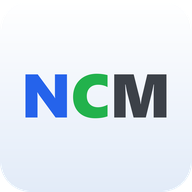
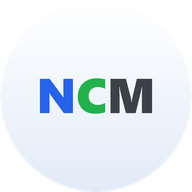
Make the figures on the staff board something you can open
The four counts were numbers you could only read. Each is now a button that
opens the people behind it, and a row of blue tiles - one per job title -
opens everyone doing that job. Both lists are ordered by employee code.

They open as a roster of code, name and job rather than full record cards:
"present" alone is 370 people, and 370 cards means 740 photographs fetched
at once. Tapping a name opens that one person in full, with a way back to
the list and from there to the figures. A count of zero stays unclickable
rather than opening an empty list.

The permits header shrank when a search ran but still scrolled away with the
page, so the mark was gone as soon as there was anything to read. It stays
put now, with the controls sticking underneath it - the offset is measured
rather than hard-coded, since it depends on fonts that load late.

The app is called NCM, and the circle the launcher already used is now the
only mark: the web icons were a rounded square of the same wordmark. The
maskable icon goes with them, since a transparent circle only gets cropped.

diff --git a/employees/index.html b/employees/index.html
@@ -281,7 +281,63 @@ html[dir="ltr"] .tile{direction:ltr;}
   display:flex;flex-direction:column;gap:7px;padding:13px 15px;
   border-radius:var(--r);background:var(--panel-2);border:1px solid var(--line);
   animation:rise .26s ease-out both;
+  /* a button, so it needs telling to look like the div it replaced */
+  width:100%;text-align:start;font:inherit;color:inherit;
+  transition:transform .12s,box-shadow .18s;
 }
+.tile:hover{box-shadow:0 6px 18px rgba(21,101,192,.14);}
+.tile:active{transform:scale(.98);}
+.tile:disabled{cursor:default;opacity:.6;box-shadow:none;transform:none;}
+/* Job tiles are the blue set: one colour for "who does what", so they read as
+   a different question from the four status counts above them. */
+.tile.job{background:#e4eefb;border-color:var(--line-2);}
+.tile.job .tile-k{color:var(--brand-navy);}
+.tile.job .tile-v{color:var(--brand-blue);}
+.tiles-head{
+  display:flex;align-items:center;gap:10px;margin:22px 0 2px;
+  font-size:11.5px;font-weight:700;color:var(--muted);letter-spacing:.02em;
+}
+.tiles-head::after{
+  content:'';flex:1;height:1px;
+  background:linear-gradient(90deg,var(--line-2),transparent);
+}
+
+/* ---------- roster: a list of names, not a wall of cards ---------- */
+/* Navigation *inside* the system, not a way out of it: the phone's own back
+   button still leaves for the home screen. */
+.backlist,.backboard{
+  display:flex;align-items:center;justify-content:center;gap:8px;
+  width:100%;margin-top:14px;padding:12px;border-radius:var(--r);
+  border:1px solid var(--line-2);background:var(--tint);color:var(--gold);
+  font:inherit;font-weight:700;font-size:13px;
+  transition:background .16s,transform .12s;
+}
+.backlist:hover,.backboard:hover{background:#d9e6f7;}
+.backlist:active,.backboard:active{transform:scale(.99);}
+.roster-hint{font-size:11.5px;color:var(--muted);margin:10px 0 0;text-align:center;}
+.roster{display:flex;flex-direction:column;gap:7px;margin-top:14px;}
+.rost{
+  display:flex;align-items:center;gap:12px;width:100%;
+  padding:12px 14px;border-radius:var(--r);
+  background:var(--panel);border:1px solid var(--line);
+  font:inherit;color:inherit;text-align:start;
+  animation:rise .22s ease-out both;
+  transition:transform .12s,box-shadow .18s,border-color .16s;
+}
+.rost:hover{border-color:var(--line-2);box-shadow:0 6px 16px rgba(21,101,192,.12);}
+.rost:active{transform:scale(.99);}
+.rost-c{
+  flex:none;min-width:52px;padding:5px 9px;border-radius:9px;
+  background:var(--tint);border:1px solid var(--line-2);
+  color:var(--brand-blue);font-size:12.5px;font-weight:700;text-align:center;
+}
+.rost-n{flex:1;min-width:0;font-size:14px;font-weight:700;line-height:1.4;}
+.rost-j{display:block;font-size:11.5px;font-weight:500;color:var(--muted);margin-top:3px;}
+.rost-s{flex:none;width:9px;height:9px;border-radius:50%;background:var(--neutral-br);}
+.rost-s.ok{background:var(--success);}
+.rost-s.warn{background:var(--warning);}
+.rost-s.bad{background:var(--danger);}
+.rost-s.mute{background:var(--neutral-br);}
 .tile-k{font-size:11.5px;color:var(--muted);}
 .tile-v{font-size:23px;font-weight:600;color:var(--text);line-height:1;}
 .tile.mute .tile-v{color:var(--text-2);}
@@ -567,6 +623,10 @@ const I18N = {
     jobTitle:'الوظيفة', department:'القسم', hireDate:'تاريخ التعيين',
     banReason:'سبب المنع', resignEnd:'انتهاء الاستقالة', notSpecified:'غير محدد',
     searchResults:'نتائج البحث', bannedList:'قائمة الممنوعين', expiringList:'تصاريح قرب الانتهاء',
+    byJob:'حسب الوظيفة', jobList:'وظيفة', noJob:'بدون وظيفة مسجلة',
+    listActive:'الموظفون الموجودون', listResigned:'الاستقالات',
+    backToBoard:'رجوع للإحصائيات', backToList:'رجوع للقائمة',
+    tapForDetails:'اضغط على أي اسم لعرض بياناته',
     noMatch:'لم يتم العثور على موظف مطابق', noMatchHint:'تأكد من الكود أو الرقم القومي أو الاسم',
     noBanned:'لا يوجد موظفون ممنوعون حاليًا',
     noExpiring:'لا توجد تصاريح تنتهي خلال ' + EXPIRY_WINDOW + ' يوم',
@@ -593,6 +653,10 @@ const I18N = {
     jobTitle:'Job Title', department:'Department', hireDate:'Hire Date',
     banReason:'Ban Reason', resignEnd:'Resignation Ends', notSpecified:'Not specified',
     searchResults:'Search Results', bannedList:'Banned List', expiringList:'Permits Expiring Soon',
+    byJob:'By job title', jobList:'Job', noJob:'No job recorded',
+    listActive:'Active employees', listResigned:'Resignations',
+    backToBoard:'Back to the figures', backToList:'Back to the list',
+    tapForDetails:'Tap a name to see the full record',
     noMatch:'No matching employee found', noMatchHint:'Check the code, national ID or name',
     noBanned:'No banned employees at the moment',
     noExpiring:'No permits expiring within ' + EXPIRY_WINDOW + ' days',
@@ -610,6 +674,91 @@ function t(k){
 function isEN(){ return lang === 'en'; }
 
 function connect(apiKey){ sb = supabase.createClient(SUPABASE_URL, apiKey); }
+
+/* ============================================================
+   THE BOARD'S LISTS
+   A tile opens the people it counted. They arrive as a roster - code, name,
+   job, a dot for the permit - rather than full cards: "present" alone is 370
+   people, and 370 cards is 740 photographs fetched at once. Tapping a name
+   opens that one person in full.
+   ============================================================ */
+let rosterRows = null;     // what the roster is currently showing
+let lastRosterTitle = '', lastRosterTone = '';
+let onBoard = true;        // false while a tile's list is open
+
+function statusDot(emp){
+  if(isResigned(emp)) return 'mute';
+  const k = statusOf(emp).k;      // 'ok' | 'warn' | 'bad' | 'mute'
+  return (k === 'ok' || k === 'warn' || k === 'bad') ? k : 'mute';
+}
+function rosterHTML(rows, title, tone){
+  const head =
+    '<div class="sect ' + (tone || '') + '">' +
+      '<span class="sect-t">' + esc(title) + '</span>' +
+      '<span class="sect-n">' + rows.length + '</span>' +
+      '<span class="sect-line"></span>' +
+    '</div>' +
+    '<p class="roster-hint">' + esc(t('tapForDetails')) + '</p>';
+  const foot = '<button type="button" class="backboard" id="backboard">' +
+               esc(t('backToBoard')) + '</button>';
+  return head + '<div class="roster">' + rows.map((r, i) =>
+    '<button type="button" class="rost" data-row="' + i + '">' +
+      '<span class="rost-c num">' + esc(r.emp_code || '—') + '</span>' +
+      '<span class="rost-n">' + esc(r.full_name || t('noName')) +
+        (r.job_title ? '<span class="rost-j">' + esc(r.job_title) + '</span>' : '') +
+      '</span>' +
+      '<span class="rost-s ' + statusDot(r) + '"></span>' +
+    '</button>').join('') + '</div>' + foot;
+}
+function renderRoster(rows, title, tone){
+  setBusy(false);
+  revealResults();
+  rosterRows = rows;
+  lastRosterTitle = title; lastRosterTone = tone || '';
+  onBoard = false;
+  out.innerHTML = rosterHTML(rows, title, tone);
+  window.scrollTo({top: 0, behavior: 'auto'});
+}
+
+/* One query, filtered here rather than in four different server-side shapes:
+   the whole table is 725 rows, and every tile needs the same columns anyway. */
+async function openGroup(pick, title, tone){
+  const myToken = ++token;
+  renderSkeleton(2);
+  try{
+    const { data, error } = await sb.from('employees').select(FIELDS);
+    if(myToken !== token) return;
+    if(error) return friendlyFail(error, myToken);
+    const rows = dedupe(data).filter(pick).sort(byCode);
+    if(!rows.length) return renderEmpty(t('noMatch'));
+    renderRoster(rows, title, tone);
+  }catch(err){ friendlyFail(err, myToken); }
+}
+
+const GROUPS = {
+  active:   () => [r => !isResigned(r),                        'listActive',   ''],
+  resigned: () => [r =>  isResigned(r),                        'listResigned', 'mute'],
+  banned:   () => [r => !isResigned(r) && (r.permit_status || '').trim() === 'ممنوع',
+                                                               'bannedList',   'alert'],
+  expiring: () => [r => {
+                     if(isResigned(r)) return false;
+                     if((r.permit_status || '').trim() !== 'ساري') return false;
+                     const d = daysLeft(r.permit_date);
+                     return d !== null && d >= 0 && d <= EXPIRY_WINDOW;
+                   },                                          'expiringList', 'warn']
+};
+
+function openBoardGroup(key){
+  const g = GROUPS[key];
+  if(!g) return;
+  const [pick, titleKey, tone] = g();
+  openGroup(pick, t(titleKey), tone);
+}
+function openJob(title){
+  // The tiles counted present staff, so the list has to agree with the number.
+  openGroup(r => !isResigned(r) && (r.job_title || '').trim() === title,
+            t('jobList') + ': ' + (title || t('noJob')), '');
+}
 
 /* ============================================================
    TEXT / SEARCH NORMALIZATION (display data is never mutated)
@@ -888,25 +1037,44 @@ function renderSkeleton(n){
 /* ---------- overview tiles (shown whenever the search box is empty) ---------- */
 let statsCache = null;
 
-function tileHTML(label, value, tone){
-  return '<div class="tile' + (tone ? ' ' + tone : '') + '">' +
+/* A tile with nothing behind it stays a plain box; one that has people behind
+   it becomes a button that opens them. A count of zero is left unclickable
+   rather than opening an empty list. */
+function tileHTML(label, value, tone, key){
+  const live = key && value > 0;
+  return '<button type="button" class="tile' + (tone ? ' ' + tone : '') + '"' +
+           (live ? ' data-group="' + esc(key) + '"' : ' disabled') + '>' +
            '<span class="tile-k">' + esc(label) + '</span>' +
            '<span class="tile-v num">' + value + '</span>' +
-         '</div>';
+         '</button>';
+}
+function jobTileHTML(title, count){
+  return '<button type="button" class="tile job" data-job="' + esc(title) + '">' +
+           '<span class="tile-k">' + esc(title || t('noJob')) + '</span>' +
+           '<span class="tile-v num">' + count + '</span>' +
+         '</button>';
 }
 function paintStats(s){
   setBusy(false);
-  out.innerHTML =
+  let html =
     '<div class="tiles">' +
-      tileHTML(t('statActive'),   s.active,   '') +
-      tileHTML(t('statResigned'), s.resigned, 'mute') +
-      tileHTML(t('statExpiring'), s.expiring, 'warn') +
-      tileHTML(t('statBanned'),   s.banned,   'bad') +
+      tileHTML(t('statActive'),   s.active,   '',     'active') +
+      tileHTML(t('statResigned'), s.resigned, 'mute', 'resigned') +
+      tileHTML(t('statExpiring'), s.expiring, 'warn', 'expiring') +
+      tileHTML(t('statBanned'),   s.banned,   'bad',  'banned') +
     '</div>';
+  if(s.jobs && s.jobs.length){
+    html += '<div class="tiles-head">' + esc(t('byJob')) + '</div>' +
+            '<div class="tiles">' +
+              s.jobs.map(j => jobTileHTML(j.title, j.count)).join('') +
+            '</div>';
+  }
+  out.innerHTML = html;
 }
 function renderIdle(){
   setBusy(false);
   setCompact(false);
+  rosterRows = null; onBoard = true;
   if(tab !== 'search'){ out.innerHTML = ''; return; }
   if(statsCache){ paintStats(statsCache); return; }
   return loadStats();
@@ -1000,14 +1168,19 @@ async function loadStats(){
     '<div class="sk-tile"></div><div class="sk-tile"></div></div>';
   try{
     const { data, error } = await sb.from('employees')
-      .select('id,emp_code,national_id,permit_status,permit_date,resignation_end_date');
+      .select('id,emp_code,national_id,job_title,permit_status,permit_date,resignation_end_date');
     if(myToken !== token) return;
     if(error) return friendlyFail(error, myToken);
 
     let active = 0, resigned = 0, expiring = 0, banned = 0;
+    // Jobs are counted for present staff only: a tile saying "12 drivers" that
+    // opens a list half full of people who left would be worse than no tile.
+    const jobCount = new Map();
     dedupe(data).forEach(r => {
       if(isResigned(r)){ resigned++; return; }
       active++;
+      const job = (r.job_title || '').trim();
+      jobCount.set(job, (jobCount.get(job) || 0) + 1);
       const raw = (r.permit_status || '').trim();
       if(raw === 'ممنوع'){ banned++; return; }
       if(raw === 'ساري'){
@@ -1016,7 +1189,11 @@ async function loadStats(){
       }
     });
 
-    statsCache = {active, resigned, expiring, banned};
+    const jobs = [...jobCount.entries()]
+      .map(([title, count]) => ({title, count}))
+      .sort((a, b) => b.count - a.count || a.title.localeCompare(b.title, 'ar'));
+
+    statsCache = {active, resigned, expiring, banned, jobs};
     setCount('n-banned', banned);
     setCount('n-exp', expiring);
     paintStats(statsCache);
@@ -1283,6 +1460,31 @@ out.addEventListener('click', e => {
   if(!btn) return;
   e.stopPropagation();
   saveBoth(btn);
+});
+
+/* ---------- the board's tiles, and the roster rows ---------- */
+out.addEventListener('click', e => {
+  const tile = e.target.closest('button.tile');
+  if(tile){
+    if(tile.dataset.job !== undefined) return openJob(tile.dataset.job);
+    if(tile.dataset.group) return openBoardGroup(tile.dataset.group);
+    return;
+  }
+  if(e.target.closest('#backboard')){ rosterRows = null; onBoard = true; return renderIdle(); }
+  if(e.target.closest('#backlist') && rosterRows){
+    return renderRoster(rosterRows, lastRosterTitle, lastRosterTone);
+  }
+
+  const row = e.target.closest('button.rost');
+  if(row && rosterRows){
+    const emp = rosterRows[+row.dataset.row];
+    if(!emp) return;
+    // One person, in full, with a way back to the list that led here.
+    out.innerHTML =
+      '<button type="button" class="backlist" id="backlist">' + esc(t('backToList')) + '</button>' +
+      recordHTML(emp);
+    window.scrollTo({top: 0, behavior: 'auto'});
+  }
 });
 
 /* ---------- photo zoom ---------- */

diff --git a/permits/index.html b/permits/index.html
@@ -254,7 +254,18 @@ body::before{
 
 /* Searching: the wordmark shrinks to make room for results, but it stays on
    screen — the app should never look like a different app mid-search. */
-body.search-mode .app-header{ padding:6px 16px 2px; }
+body.search-mode .app-header{
+  padding:6px 16px 2px;
+  position:sticky;
+  top:env(safe-area-inset-top);
+  z-index:101;
+  background:var(--page);
+}
+/* --hdr-h is measured and set in JS the moment the header collapses: hard-coding
+   it here would drift the first time the logo or its font changes size. */
+body.search-mode .controls-sticky{
+  top:calc(env(safe-area-inset-top) + var(--hdr-h, 39px));
+}
 body.search-mode .logo-mark .logo-ncm{ font-size:22px; }
 body.search-mode .logo-mark .logo-sub{ font-size:4.8px; letter-spacing:1.1px; margin-top:4px; }
 body.search-mode .system-status{ display:none; }
@@ -1321,6 +1332,7 @@ function syncPlaceholder(){
 function syncClear(){ mainClear.classList.toggle("show", mainInput.value.length > 0); }
 function updateSearchMode(){
   document.body.classList.toggle("search-mode", !!normalize(submitted[activeTab]));
+  measureHeader();
 }
 
 function runSearch(){
@@ -1392,6 +1404,17 @@ mainClear.addEventListener("click", ()=>{
 });
 syncPlaceholder();
 syncClear();
+
+/* The controls have to sit exactly below the collapsed header, and its height
+   depends on fonts that load late. Measuring beats guessing. */
+function measureHeader(){
+  const h = document.querySelector(".app-header");
+  if(!h) return;
+  const px = document.body.classList.contains("search-mode") ? h.offsetHeight : 0;
+  document.documentElement.style.setProperty("--hdr-h", px + "px");
+}
+window.addEventListener("resize", measureHeader);
+if(document.fonts && document.fonts.ready) document.fonts.ready.then(measureHeader);
 
 /* ======================= Status + language refresh ======================= */
 

diff --git a/service-worker.js b/service-worker.js
@@ -5,7 +5,7 @@
 // Bump CACHE with every upload, otherwise devices keep serving the copy they
 // already have and never see the new files — including a raised
 // ACCESS_VERSION, which is the only way to lock a device that is already in.
-const CACHE = 'ncm-unified-v1';
+const CACHE = 'ncm-unified-v2';
 const SHELL = [
   './',
   './index.html',
@@ -17,8 +17,7 @@ const SHELL = [
   './supabase.min.js',
   './lib/papaparse.min.js',
   './icons/icon-192.png',
-  './icons/icon-512.png',
-  './icons/icon-maskable-512.png'
+  './icons/icon-512.png'
 ];
 
 self.addEventListener('install', (e) => {
